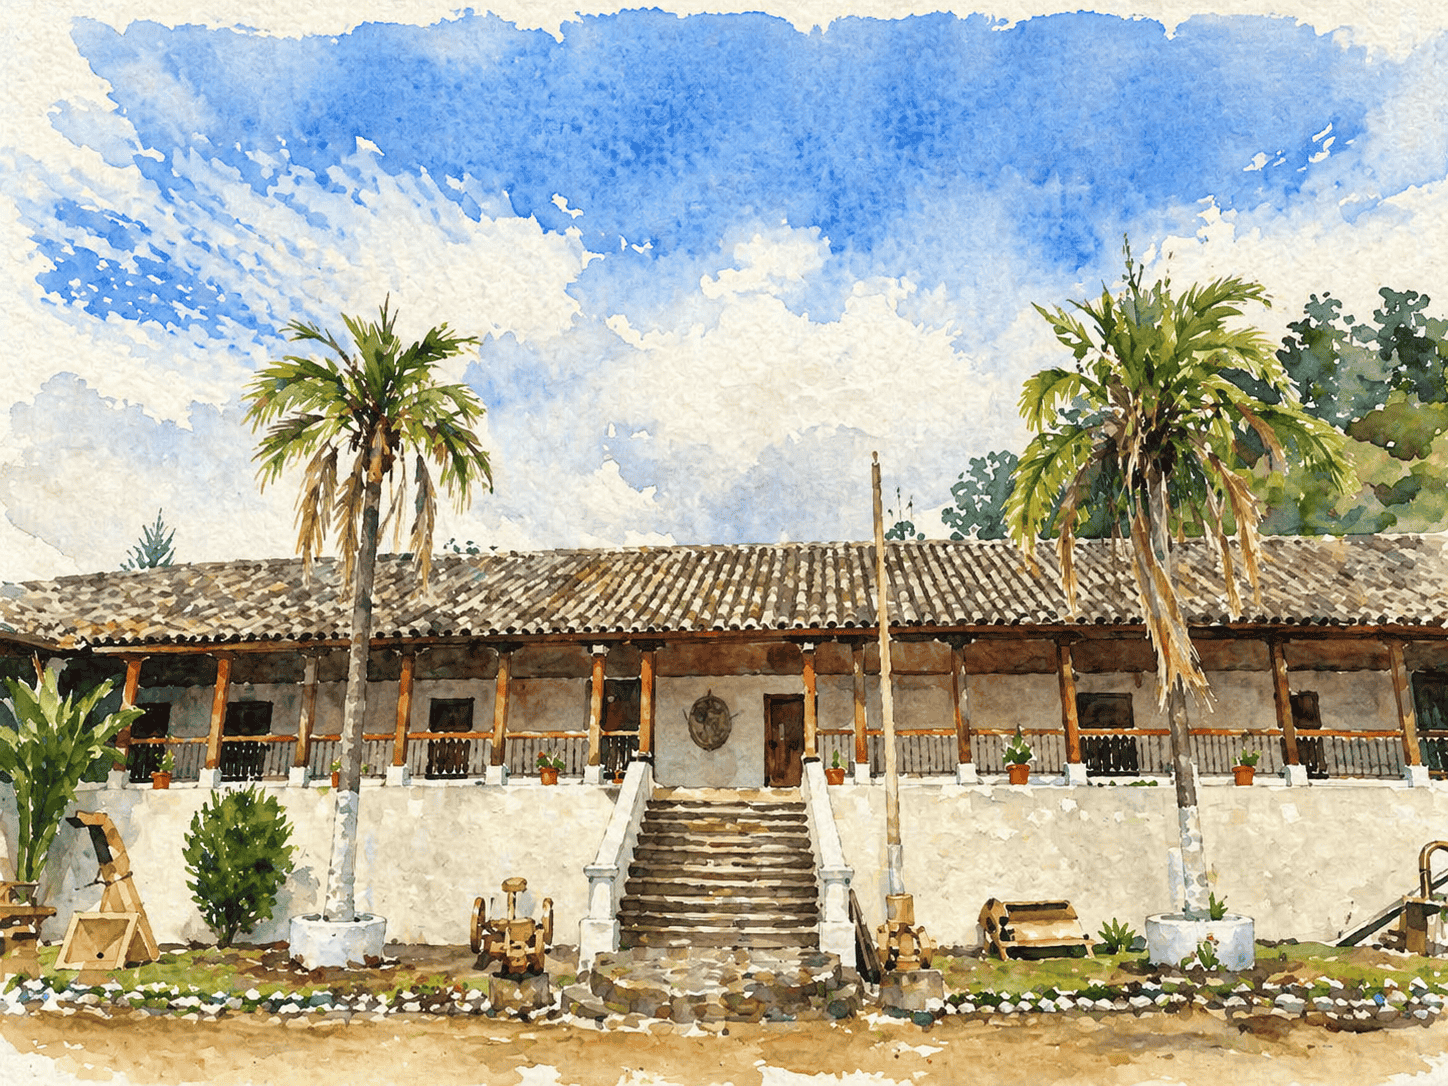
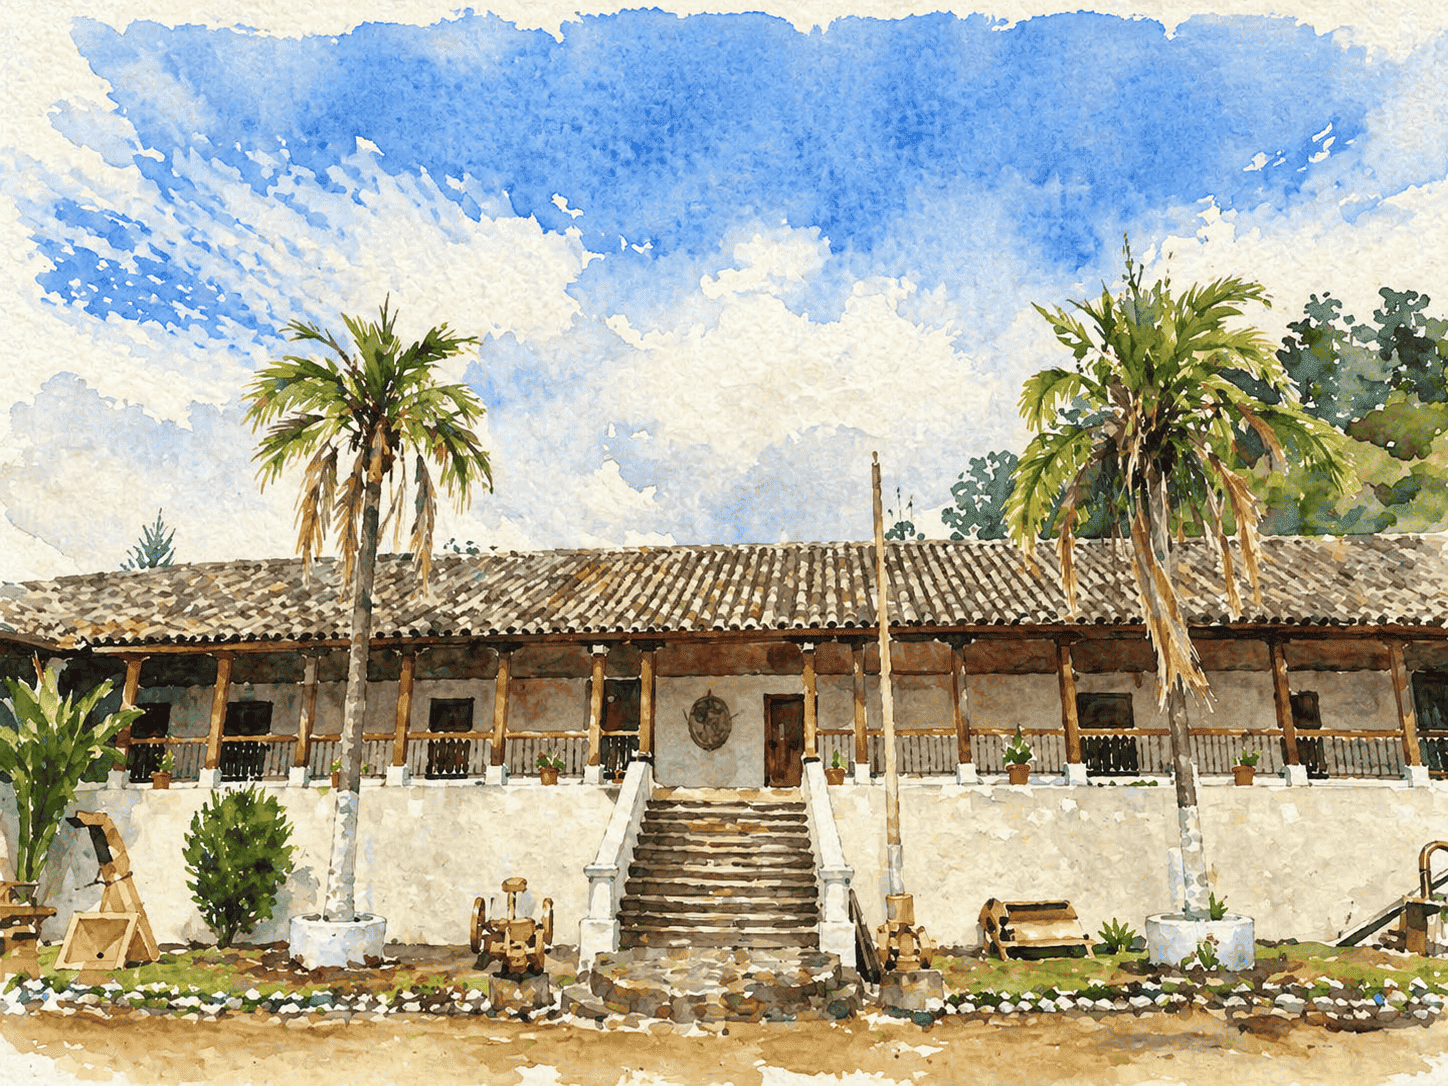
relink compressed images

diff --git a/src/index.css b/src/index.css
@@ -24,7 +24,7 @@
 }
 
 .hero-bg {
-  background-image: url("/images/index_mobile.jpeg");
+  background-image: url("/images/hero-background-mobile.png");
   background-size: cover;
   background-position: center;
 }
@@ -36,7 +36,7 @@
 }
 
 .main-bg {
-  background-image: url("/images/ecuador.png");
+  background-image: url("/images/main-background-mobile.png");
   background-size: cover;
   background-position: center;
   background-attachment: fixed;
@@ -44,6 +44,7 @@
 
 @media (min-width: 768px) {
   .main-bg {
+    background-image: url("/images/main-background-desktop.png");
     background-position: center 28%;
   }
 }
